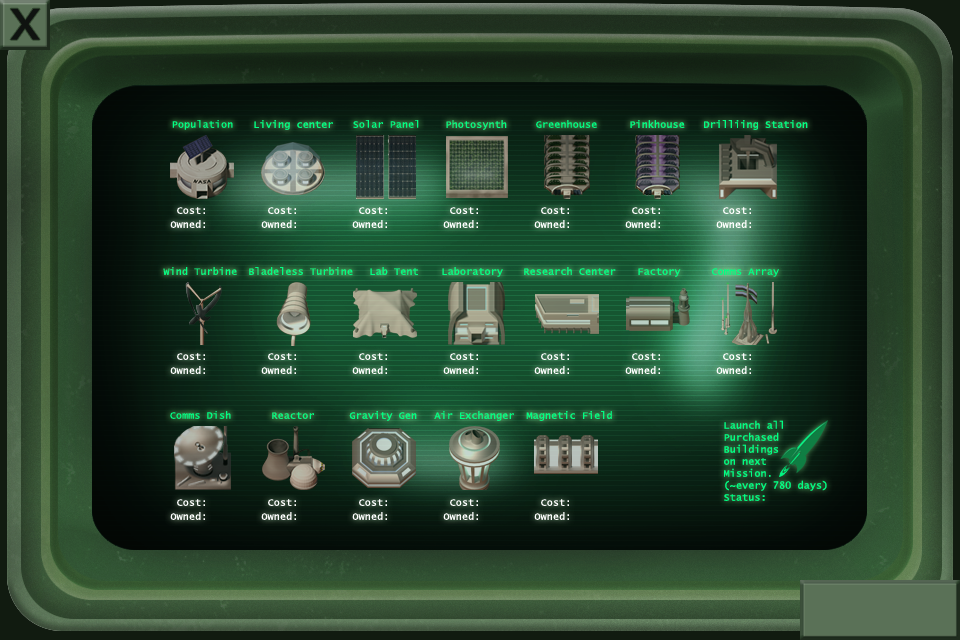
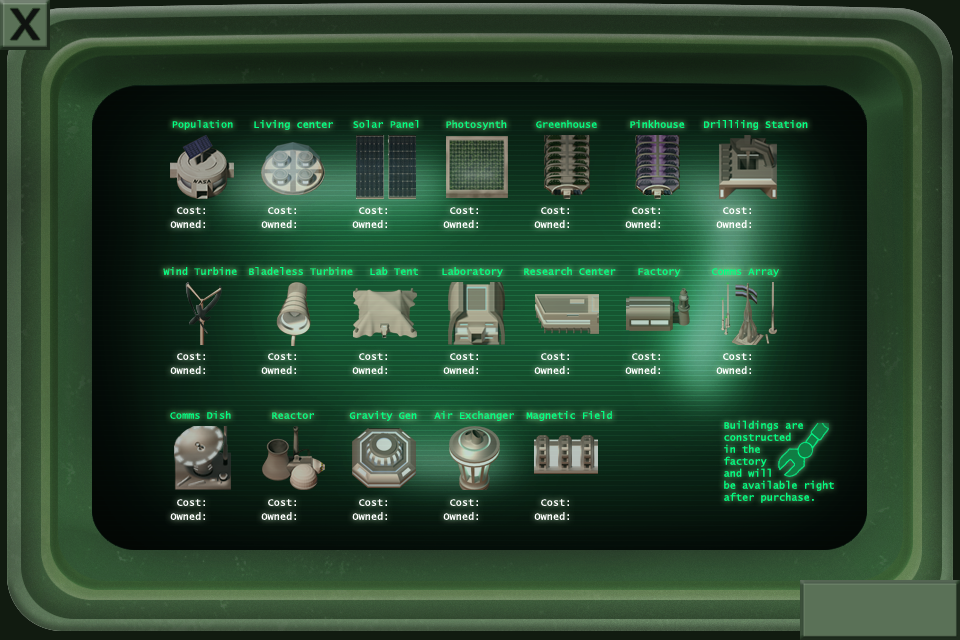
FactoryShop

Changed region(s): [[0.75, 0.6562, 0.875, 0.8125]]

diff --git a/nccarlso/javascript/store.js b/nccarlso/javascript/store.js
@@ -15,15 +15,22 @@ var storeActive = false;
 var costTexts = [];
 var ownedTexts = [];
 var buildingsStore = 15;
-var factoryStart = false;
+var factoryMode = false;
 
 function startStore(){
 	storeActive = true;
-	if(factoryStart) buildingsStore = 19;
-	else buildingsStore = 15;
+	if(factoryMode){
+		buildingsStore = 19;
+		shopbg.image=Textures.load("images/terminalShopF.png");
+	}
+	else{
+		buildingsStore = 15;
+		shopbg.image=Textures.load("images/terminalShop.png");
+	}
 	world.addChild(shopbg);
 	world.removeChild(HUD);
-	if(!LaunchQueued) rocketStatus.text = "Inactive";
+	if(!LaunchQueued && !factoryMode) rocketStatus.text = "Inactive";
+	else if(factoryMode) rocketStatus.text = "";
 	world.addChild(rocketStatus);
 	world.addChild(cashStatus);
 	clearText();
@@ -33,7 +40,7 @@ function startStore(){
 
 function stopStore(){
 	storeActive = false;
-	factoryStart = false;
+	factoryMode = false;
 	world.removeChild(shopbg);
 	world.removeChild(rocketStatus);
 	world.removeChild(cashStatus);
@@ -47,7 +54,8 @@ function stopStore(){
 }
 
 function updateStoreInfo(){
-	cashStatus.text = "Funds:\n" + money + " mil\n\nLaunch in:\n" + (76+getTimeToNextLaunch()) + " days";
+	if (factoryMode) cashStatus.text = "Quantity\nminerals\nowned:\n  " + minerals + "\n  metric tons";
+	else cashStatus.text = "Funds:\n" + money + " mil\n\nLaunch in:\n" + (76+getTimeToNextLaunch()) + " days";
 }
 
 var rocketType = 0;
@@ -55,7 +63,7 @@ var popLaunch = 0;
 
 function checkStoreClicks(x, y) {
 	if(storeActive){
-		if (x >= 724 && x <= 828 && y >= 420 && y <= 501){
+		if (x >= 724 && x <= 828 && y >= 420 && y <= 501 && !factoryMode){
 			if(money >= (250 - (50*rocketType)) || LaunchQueued){ //Checks cash for launch
 				if(!LaunchQueued) {
 					rocketStatus.text = "Launch\n" + "queued.";
@@ -67,7 +75,7 @@ function checkStoreClicks(x, y) {
 					LaunchQueued = false;
 					money += (250 - (50*rocketType));
 				}
-			}else (alert((250 - (50*rocketType)) + "MIL required for launch."));
+			}else if(!factoryMode)(alert((250 - (50*rocketType)) + "MIL required for launch."));
 			return 0; //Launch clicked
 		}
 		var xoffset = 0;
@@ -119,8 +127,13 @@ function updateStoreText(){
 			yoffset = 135+(ytemp*146);
 			xtemp++;
 			console.log((i+1));
-			costTexts[i].text = (getModel(i+1).cost) +" mil";
-			ownedTexts[i].text = launchCargo[i+1];
+			if(!factoryMode){
+				costTexts[i].text = (getModel(i+1).cost) +" mil";
+				ownedTexts[i].text = launchCargo[i+1];
+			} else {
+				costTexts[i].text = (getModel(i+1).cost/10) +" MT";
+				ownedTexts[i].text = buidlingsAvailable[i+1];
+			}
 			costTexts[i].x = xoffset+40;
 			ownedTexts[i].x = xoffset+40;
 			costTexts[i].y = yoffset+68;
@@ -130,11 +143,19 @@ function updateStoreText(){
 
 function purchaseBuilding(x){
 	if(x >= 1 && x <= buildingsStore){
-		if(!buidlingUnlocked[x]) alert("Building not unlocked, try purchasing some researches to unlock it.");
-		else if(money >= getModel(x).cost){
-			money -= (getModel(x).cost);
-			launchCargo[x]++;
-		}else if(money < getModel(x).cost) alert("Insufficient funds.");
+		if(!factoryMode){
+			if(!buidlingUnlocked[x]) alert("Building not unlocked, try purchasing some researches to unlock it.");
+			else if(money >= getModel(x).cost){
+				money -= (getModel(x).cost);
+				launchCargo[x]++;
+			}else if(money < getModel(x).cost) alert("Insufficient funds.");
+		} else {
+			if(!buidlingUnlocked[x]) alert("Building not unlocked, try purchasing some researches to unlock it.");
+			else if(money >= Math.floor(getModel(x).cost/10)){
+				money -= (Math.floor(getModel(x).cost/10));
+				buidlingsAvailable[x]++;
+			}else if(money < Math.floor(getModel(x).cost/10)) alert("Insufficient Resources.");
+		}
 	}
 }
 
@@ -167,7 +188,7 @@ ownedTextGeneric.dropShadow = true;
 ownedTextGeneric.shadowColorCustom = '#91E8BC';
 ownedTextGeneric.shadowBlurCustom = 4;
 
-var rocketStatus = new TextBox("Inactive");
+var rocketStatus = new TextBox("");
 rocketStatus.x = 769;
 rocketStatus.y = 490;
 rocketStatus.fontSize = '14';

diff --git a/nccarlso/javascript/drawHUD.js b/nccarlso/javascript/drawHUD.js
@@ -322,9 +322,11 @@ function stopActive(){
 ///////////////////////////////////////////////////////////////////////////////////////////////////////////////////
 //Check if sprite clicked
 var storeClickable = false;
+var factoryMDown = false;
 manager.onMouseDown = function () {
 	if(!storeActive) storeClickable = false;
 	if(marsActive && gInput.mouse.x < (canvas.width-160)){ //Mars
+		factoryMDown = checkFactoryOver();
 		dragging = true;
 	}
 	if (startActive){ //If Menu
@@ -353,6 +355,12 @@ manager.onMouseUp = function () {
 		dragging = false;
 		MouseOverFirst = true;
 		drawTileEngine();
+		if(factoryMDown && checkFactoryOver()){
+			stopActive();
+			factoryMode = true;
+			startStore();
+			redrawButtons();
+		}
 	}
 	if (startActive){ //If Menu
 		for(i = 0; i < spritesDown.length; i++){
@@ -434,8 +442,13 @@ manager.onMouseUp = function () {
 					startStore();
 					redrawButtons();
 				}else if(storeActive){
-					stopActive();
-					startEarth();
+					if(!factoryMode){
+						stopActive();
+						startEarth();
+					} else {
+						stopActive();
+						startMars();
+					}
 				}
 			}
 		}

diff --git a/nccarlso/javascript/Mars.js b/nccarlso/javascript/Mars.js
@@ -344,7 +344,7 @@ function drawTileEngine() {
 				for(var j = 0; j < BuildingSize(model).sx; j++){
 					tileGrid[leftTile+HighlightX-j][topTile+HighlightY-i].occupied = true;
 					if(getModel(model).isNode == 1) tileGrid[leftTile+HighlightX-j][topTile+HighlightY-i].node = true;
-					else if(getModel(model).isNode == 2) tileGrid[xOff-Math.floor((right/2))][yOff-top].node = true;
+					else if(getModel(model).isNode == 2) tileGrid[leftTile+HighlightX-Math.floor((right/2))][topTile+HighlightY-top].node = true;
 				}
 			}
 			if(numberOf[1] != 0 || numberOf[2] != 0) firstBuilding = false;
@@ -368,6 +368,17 @@ function drawTileEngine() {
 	MousePrevX = MouseCurrX;
 	MousePrevY = MouseCurrY;
 }//end of drawTileEngine()
+
+function checkFactoryOver(){
+	if (numberOf[13] <= 0) return false;
+	for(var i = 0; i < buildingCount; i++) {
+		if(buildings[i].id == "factory1") {
+			if(MouseCurrX >= buildings[i].x && MouseCurrX < (buildings[i].x+160) && MouseCurrY >= buildings[i].y && MouseCurrY < (buildings[i].y+74))
+				return true;
+		}
+	}
+	return false;
+}
 
 
 

diff --git a/nccarlso/javascript/Buildings.js b/nccarlso/javascript/Buildings.js
@@ -550,10 +550,10 @@ function checkNode(model, xOff, yOff){
 		if(tileGrid[xOff+1][yOff+top].node == true) return true;
 		else return false;
 	} else if(getModel(model).isNode == 4){ //factory
-		if(tileGrid[xOff-4][yOff+top].node == true) return true;
+		if(tileGrid[xOff-4][yOff+top+1].node == true) return true;
 		else return false;
 	} else if(getModel(model).isNode == 5){ //research
-		if(tileGrid[xOff+1][yOff+top].node == true) return true;
+		if(tileGrid[xOff+1][yOff+top+1].node == true) return true;
 		else return false;
 	} else if(getModel(model).isNode == 6){ //lab
 		if(tileGrid[xOff-Math.floor((right/2))][yOff-bot].node == true) return true;
